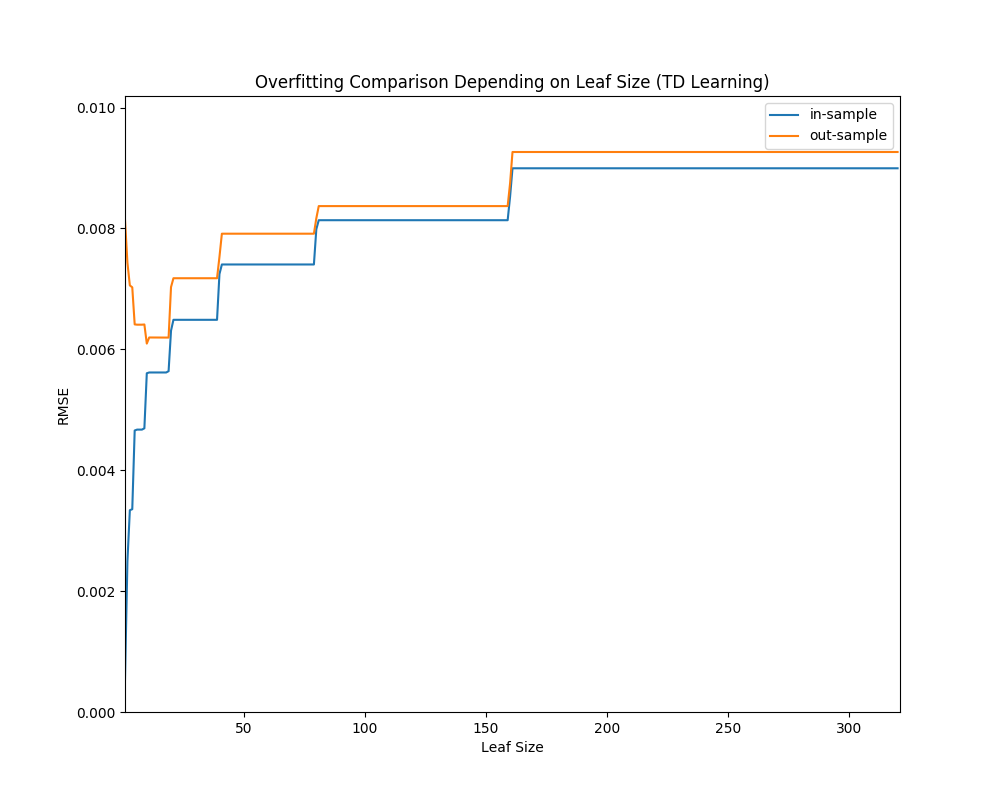
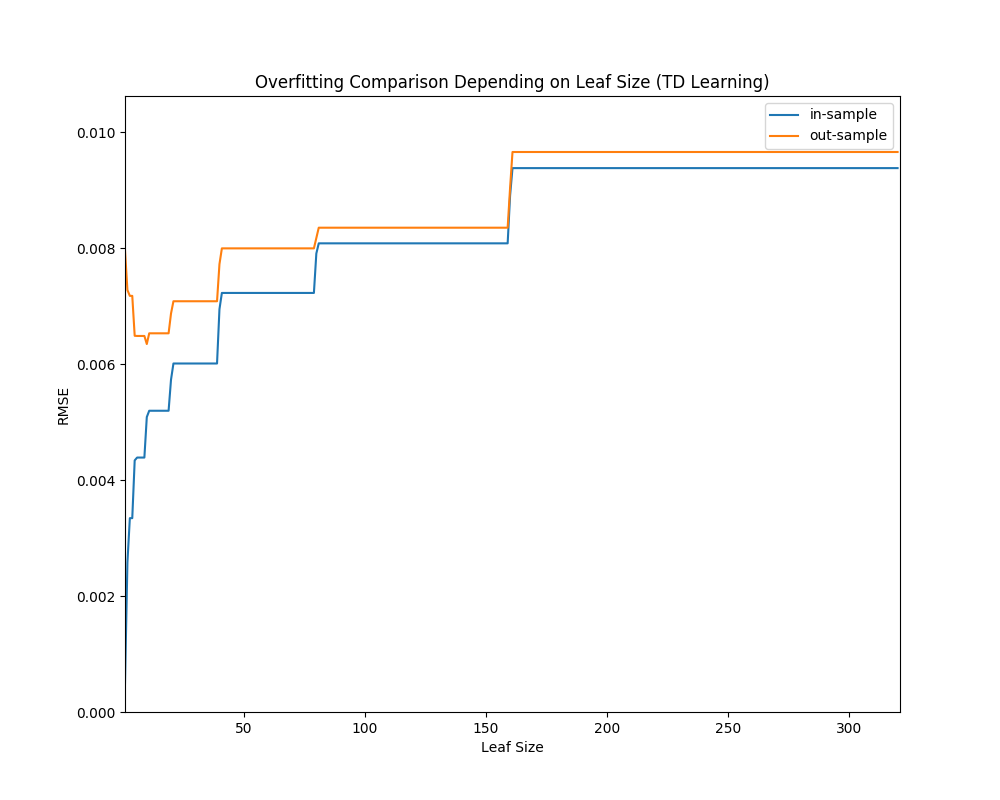
HW 3/3 done write the report instead of wathcing soccer game

diff --git a/04_HW_3_Assess_Learners/testlearner.py b/04_HW_3_Assess_Learners/testlearner.py
@@ -101,16 +101,146 @@ if __name__=="__main__":
 
 
 
-    ### FOR DT Learner Leaf size 1 to all
-    for leaf in range(1,trainX.shape[0]):
-        learner = dl.DTLearner(leaf_size=leaf, verbose=False)
-        in_sample, out_sample = rmse(trainX, trainY, testX, testY, learner)
-        hold_it[0, leaf-1] = in_sample
-        hold_it[1, leaf-1] = out_sample
+    # ## FOR DT Learner Leaf size 1 to all
+    # for leaf in range(1,trainX.shape[0]):
+    #     learner = dl.DTLearner(leaf_size=leaf, verbose=False)
+    #     in_sample, out_sample = rmse(trainX, trainY, testX, testY, learner)
+    #     hold_it[0, leaf-1] = in_sample
+    #     hold_it[1, leaf-1] = out_sample
 
-    q = np.argmin(hold_it[1, :])
-    print 'out sample minimum value: ', np.argmin(hold_it[1, :]), np.min(hold_it[1,:])
-    print 'in sample value at min value of out sample: ', hold_it[0, q]
+    # q = np.argmin(hold_it[1, :])
+    # print 'out sample minimum value: ', np.argmin(hold_it[1, :]), np.min(hold_it[1,:])
+    # print 'in sample value at min value of out sample: ', hold_it[0, q]
+
+    # plt.rcParams["figure.figsize"] = (10,8)    
+    # fig, ax = plt.subplots()
+    # ax.plot(range(1, trainX.shape[0]), hold_it[0], label='in-sample')
+    # ax.plot(range(1, trainX.shape[0]), hold_it[1], label='out-sample')
+    # plt.ylabel('RMSE')
+    # plt.xlabel('Leaf Size')
+    # plt.title('Overfitting Comparison Depending on Leaf Size (TD Learning)')
+    # maks = np.max(hold_it) * 1.1 
+    # plt.axis([1, trainX.shape[0], 0, maks])
+    # plt.legend()  
+    # # plt.show()
+    # plt.savefig('Overfitting_Comparison_Depending_on_Leaf_Size_Size_All.png')
+
+    # # plt.close()
+
+
+    # fig, ax = plt.subplots()
+    # ax.plot(range(1, 20), hold_it[0, :19], label='in-sample')
+    # ax.plot(range(1, 20), hold_it[1, :19], label='out-sample')
+    # plt.ylabel('RMSE')
+    # plt.xlabel('Leaf Size')
+    # plt.title('Overfitting Comparison Depending on Leaf Size (TD Learning)')
+    # maks = np.max(hold_it[:, :19]) * 1.1 
+    # plt.axis([1, 20, 0, maks])
+    # plt.legend()  
+    # # plt.rcParams["figure.figsize"] = (10,8)
+    # plt.savefig('Overfitting_Comparison_Depending_on_Leaf_Size_Size_20.png')
+
+
+
+    # bags = 90
+    # diff = 3
+    # hold_it = np.zeros((2, bags/diff))
+
+    # for no_bag in range(1,bags, diff):
+    #     # learner = dl.DTLearner(leaf_size=leaf, verbose=False)
+
+    #     bag = bl.BagLearner(dl.DTLearner, kwargs = {"leaf_size": 9, "verbose": False}, bags = no_bag, boost=False, verbose=False)
+    #     in_sample, out_sample = rmse(trainX, trainY, testX, testY, bag)
+    #     hold_it[0, ((no_bag/diff))] = in_sample
+    #     hold_it[1, ((no_bag/diff))] = out_sample
+
+    # print 'leaf_size 9'
+    # print hold_it[1, 0]
+    # print np.mean(hold_it[1, 20:])
+
+    # fig, ax = plt.subplots()
+    # ax.plot(range(1,bags,diff), hold_it[0], label='in-sample')
+    # ax.plot(range(1,bags,diff), hold_it[1], label='out-sample')
+    # plt.ylabel('RMSE')
+    # plt.xlabel('Number of Bags')
+    # plt.title('Overfitting Comparison Depending on Number of Bags (Leaf_size=9)')
+    # maks = np.max(hold_it) * 1.1 
+    # plt.axis([1, bags, 0, maks])
+    # plt.legend()   
+    # # plt.show()
+    # plt.savefig('Overfitting_Comparison_Depending_on_Number_of_Bags_Leaf_Size_9.png')
+
+
+
+    # # LEAF SIZE 2 bags 30
+    # bags = 90
+    # diff = 3
+    # hold_it = np.zeros((2, bags/diff))
+
+    # for no_bag in range(1,bags, diff):
+    #     # learner = dl.DTLearner(leaf_size=leaf, verbose=False)
+
+    #     bag = bl.BagLearner(dl.DTLearner, kwargs = {"leaf_size": 2, "verbose": False}, bags = no_bag, boost=False, verbose=False)
+    #     in_sample, out_sample = rmse(trainX, trainY, testX, testY, bag)
+    #     hold_it[0, ((no_bag/diff))] = in_sample
+    #     hold_it[1, ((no_bag/diff))] = out_sample
+
+    # print 'leaf_size 2'
+    # print hold_it[1, 0]
+    # print np.mean(hold_it[1, 20:])
+
+
+    # fig, ax = plt.subplots()
+    # ax.plot(range(1,bags,diff), hold_it[0], label='in-sample')
+    # ax.plot(range(1,bags,diff), hold_it[1], label='out-sample')
+    # plt.ylabel('RMSE')
+    # plt.xlabel('Number of Bags')
+    # plt.title('Overfitting Comparison Depending on Number of Bags (Leaf_size=2)')
+    # maks = np.max(hold_it) * 1.1 
+    # plt.axis([1, bags, 0, maks])
+    # plt.legend()  
+    # # plt.show()
+    # plt.savefig('Overfitting_Comparison_Depending_on_Number_of_Bags_Leaf_Size_2.png')
+
+
+
+    ### RLLEARNER COMPARISON
+
+    hold_it = np.zeros((2, trainX.shape[0]-1))
+    a = np.zeros((2,30))
+    for i in range(30):
+        for leaf in range(1,trainX.shape[0]):
+            learner = rl.RTLearner(leaf_size=leaf, verbose=False)
+            in_sample, out_sample = rmse(trainX, trainY, testX, testY, learner)
+            hold_it[0, leaf-1] = in_sample
+            hold_it[1, leaf-1] = out_sample
+
+        q = np.argmin(hold_it[1, :])
+        print 'random out sample minimum value: ', np.argmin(hold_it[1, :]), np.min(hold_it[1,:])
+        print 'in sample value at min value of out sample: ', hold_it[0, q]
+        a[0, i] = q
+        a[1, i] = np.min(hold_it[1,:])  
+    print a
+
+
+
+    nold_it = np.zeros((2, trainX.shape[0]-1))
+    a = np.zeros((2,10))
+    for i in range(10):
+        for leaf in range(1,trainX.shape[0]):
+            learner = rl.RTLearner(leaf_size=12, verbose=False)
+            in_sample, out_sample = rmse(trainX, trainY, testX, testY, learner)
+            nold_it[0, leaf-1] = in_sample
+            nold_it[1, leaf-1] = out_sample
+
+        q = np.argmin(nold_it[1, :])
+        # print 'random out sample minimum value: ', np.argmin(hold_it[1, :]), np.ma(hold_it[1,:])
+        # print 'in sample value at min value of out sample: ', hold_it[0, q]
+        a[0, i] = q
+        a[1, i] = np.mean(nold_it[1,:])  
+    print a
+
+
 
     plt.rcParams["figure.figsize"] = (10,8)    
     fig, ax = plt.subplots()
@@ -118,12 +248,12 @@ if __name__=="__main__":
     ax.plot(range(1, trainX.shape[0]), hold_it[1], label='out-sample')
     plt.ylabel('RMSE')
     plt.xlabel('Leaf Size')
-    plt.title('Overfitting Comparison Depending on Leaf Size (TD Learning)')
+    plt.title('Overfitting Comparison Depending on Leaf Size (RT Learning)')
     maks = np.max(hold_it) * 1.1 
     plt.axis([1, trainX.shape[0], 0, maks])
     plt.legend()  
     # plt.show()
-    plt.savefig('Overfitting_Comparison_Depending_on_Leaf_Size_Size_All.png')
+    plt.savefig('Random_Overfitting_Comparison_Depending_on_Leaf_Size_Size_All.png')
 
     # plt.close()
 
@@ -133,45 +263,75 @@ if __name__=="__main__":
     ax.plot(range(1, 20), hold_it[1, :19], label='out-sample')
     plt.ylabel('RMSE')
     plt.xlabel('Leaf Size')
-    plt.title('Overfitting Comparison Depending on Leaf Size (TD Learning)')
+    plt.title('Overfitting Comparison Depending on Leaf Size (RT Learning)')
     maks = np.max(hold_it[:, :19]) * 1.1 
     plt.axis([1, 20, 0, maks])
     plt.legend()  
     # plt.rcParams["figure.figsize"] = (10,8)
-    plt.savefig('Overfitting_Comparison_Depending_on_Leaf_Size_Size_20.png')
-
-
-
-    # ### FOR RL Learner Leaf size 1 to all
-    # for leaf in range(1,trainX.shape[0]):
-    #     learner = dl.DTLearner(leaf_size=leaf, verbose=False)
-    #     in_sample, out_sample = rmse(trainX, trainY, testX, testY, learner)
-    #     hold_it[0, leaf-1] = in_sample
-    #     hold_it[1, leaf-1] = out_sample
+    plt.savefig('Random_Overfitting_Comparison_Depending_on_Leaf_Size_Size_20.png')
+    
 
 
 
 
+    ### RANDOM TREE BAGGING
 
-    # fig, ax = plt.subplots()
-    # ax.plot(range(1, trainX.shape[0]), hold_it[0], label='in-sample')
-    # ax.plot(range(1, trainX.shape[0]), hold_it[1], label='out-sample')
-    # plt.ylabel('RMSE')
-    # plt.xlabel('Leaf Size')
-    # plt.title('Overfitting Comparison Depending on Leaf Size (RL Learning)')
-    # maks = np.max(hold_it) * 1.1 
-    # plt.axis([1, trainX.shape[0], 0, maks])
-    # plt.legend()  
+    bags = 90
+    diff = 3
+    hold_it = np.zeros((2, bags/diff))
+
+    for no_bag in range(1,bags, diff):
+        # learner = dl.DTLearner(leaf_size=leaf, verbose=False)
+
+        bag = bl.BagLearner(rl.RTLearner, kwargs = {"leaf_size": 12, "verbose": False}, bags = no_bag, boost=False, verbose=False)
+        in_sample, out_sample = rmse(trainX, trainY, testX, testY, bag)
+        hold_it[0, ((no_bag/diff))] = in_sample
+        hold_it[1, ((no_bag/diff))] = out_sample
+
+    print 'leaf_size 9'
+    print hold_it[1, 0]
+    print np.mean(hold_it[1, 20:])
+
+    fig, ax = plt.subplots()
+    ax.plot(range(1,bags,diff), hold_it[0], label='in-sample')
+    ax.plot(range(1,bags,diff), hold_it[1], label='out-sample')
+    plt.ylabel('RMSE')
+    plt.xlabel('Number of Bags')
+    plt.title('Random Overfitting Comparison Depending on Number of Bags (Leaf_size=9)')
+    maks = np.max(hold_it) * 1.1 
+    plt.axis([1, bags, 0, maks])
+    plt.legend()  
     # plt.show()
+    plt.savefig('Random Overfitting_Comparison_Depending_on_Number_of_Bags_Leaf_Size_9.png')
 
 
-    # fig, ax = plt.subplots()
-    # ax.plot(range(1, 20), hold_it[0, :19], label='in-sample')
-    # ax.plot(range(1, 20), hold_it[1, :19], label='out-sample')
-    # plt.ylabel('RMSE')
-    # plt.xlabel('Leaf Size')
-    # plt.title('Overfitting Comparison Depending on Leaf Size (RL Learning)')
-    # maks = np.max(hold_it[:, :19]) * 1.1 
-    # plt.axis([1, 20, 0, maks])
-    # plt.legend()  
-    # plt.show() 
+
+    # LEAF SIZE 2 bags 30
+    bags = 90
+    diff = 3
+    hold_it = np.zeros((2, bags/diff))
+
+    for no_bag in range(1,bags, diff):
+        # learner = dl.DTLearner(leaf_size=leaf, verbose=False)
+
+        bag = bl.BagLearner(rl.RTLearner, kwargs = {"leaf_size": 2, "verbose": False}, bags = no_bag, boost=False, verbose=False)
+        in_sample, out_sample = rmse(trainX, trainY, testX, testY, bag)
+        hold_it[0, ((no_bag/diff))] = in_sample
+        hold_it[1, ((no_bag/diff))] = out_sample
+
+    print 'leaf_size 2'
+    print hold_it[1, 0]
+    print np.mean(hold_it[1, 20:])
+
+
+    fig, ax = plt.subplots()
+    ax.plot(range(1,bags,diff), hold_it[0], label='in-sample')
+    ax.plot(range(1,bags,diff), hold_it[1], label='out-sample')
+    plt.ylabel('RMSE')
+    plt.xlabel('Number of Bags')
+    plt.title('Random Overfitting Comparison Depending on Number of Bags (Leaf_size=2)')
+    maks = np.max(hold_it) * 1.1 
+    plt.axis([1, bags, 0, maks])
+    plt.legend()  
+    # plt.show()
+    plt.savefig('Random Overfitting_Comparison_Depending_on_Number_of_Bags_Leaf_Size_2.png')

diff --git a/04_HW_3_Assess_Learners/RTLearner.py b/04_HW_3_Assess_Learners/RTLearner.py
@@ -99,8 +99,6 @@ class RTLearner:
             right_node = node + left_tree.shape[0] + 1
         else:
             right_node = node + 1 + 1
-        if right_node == 7:
-            print 'aaaa'
         right_tree = self.build_tree(right_x, right_y, right_node)
 
         # add root
